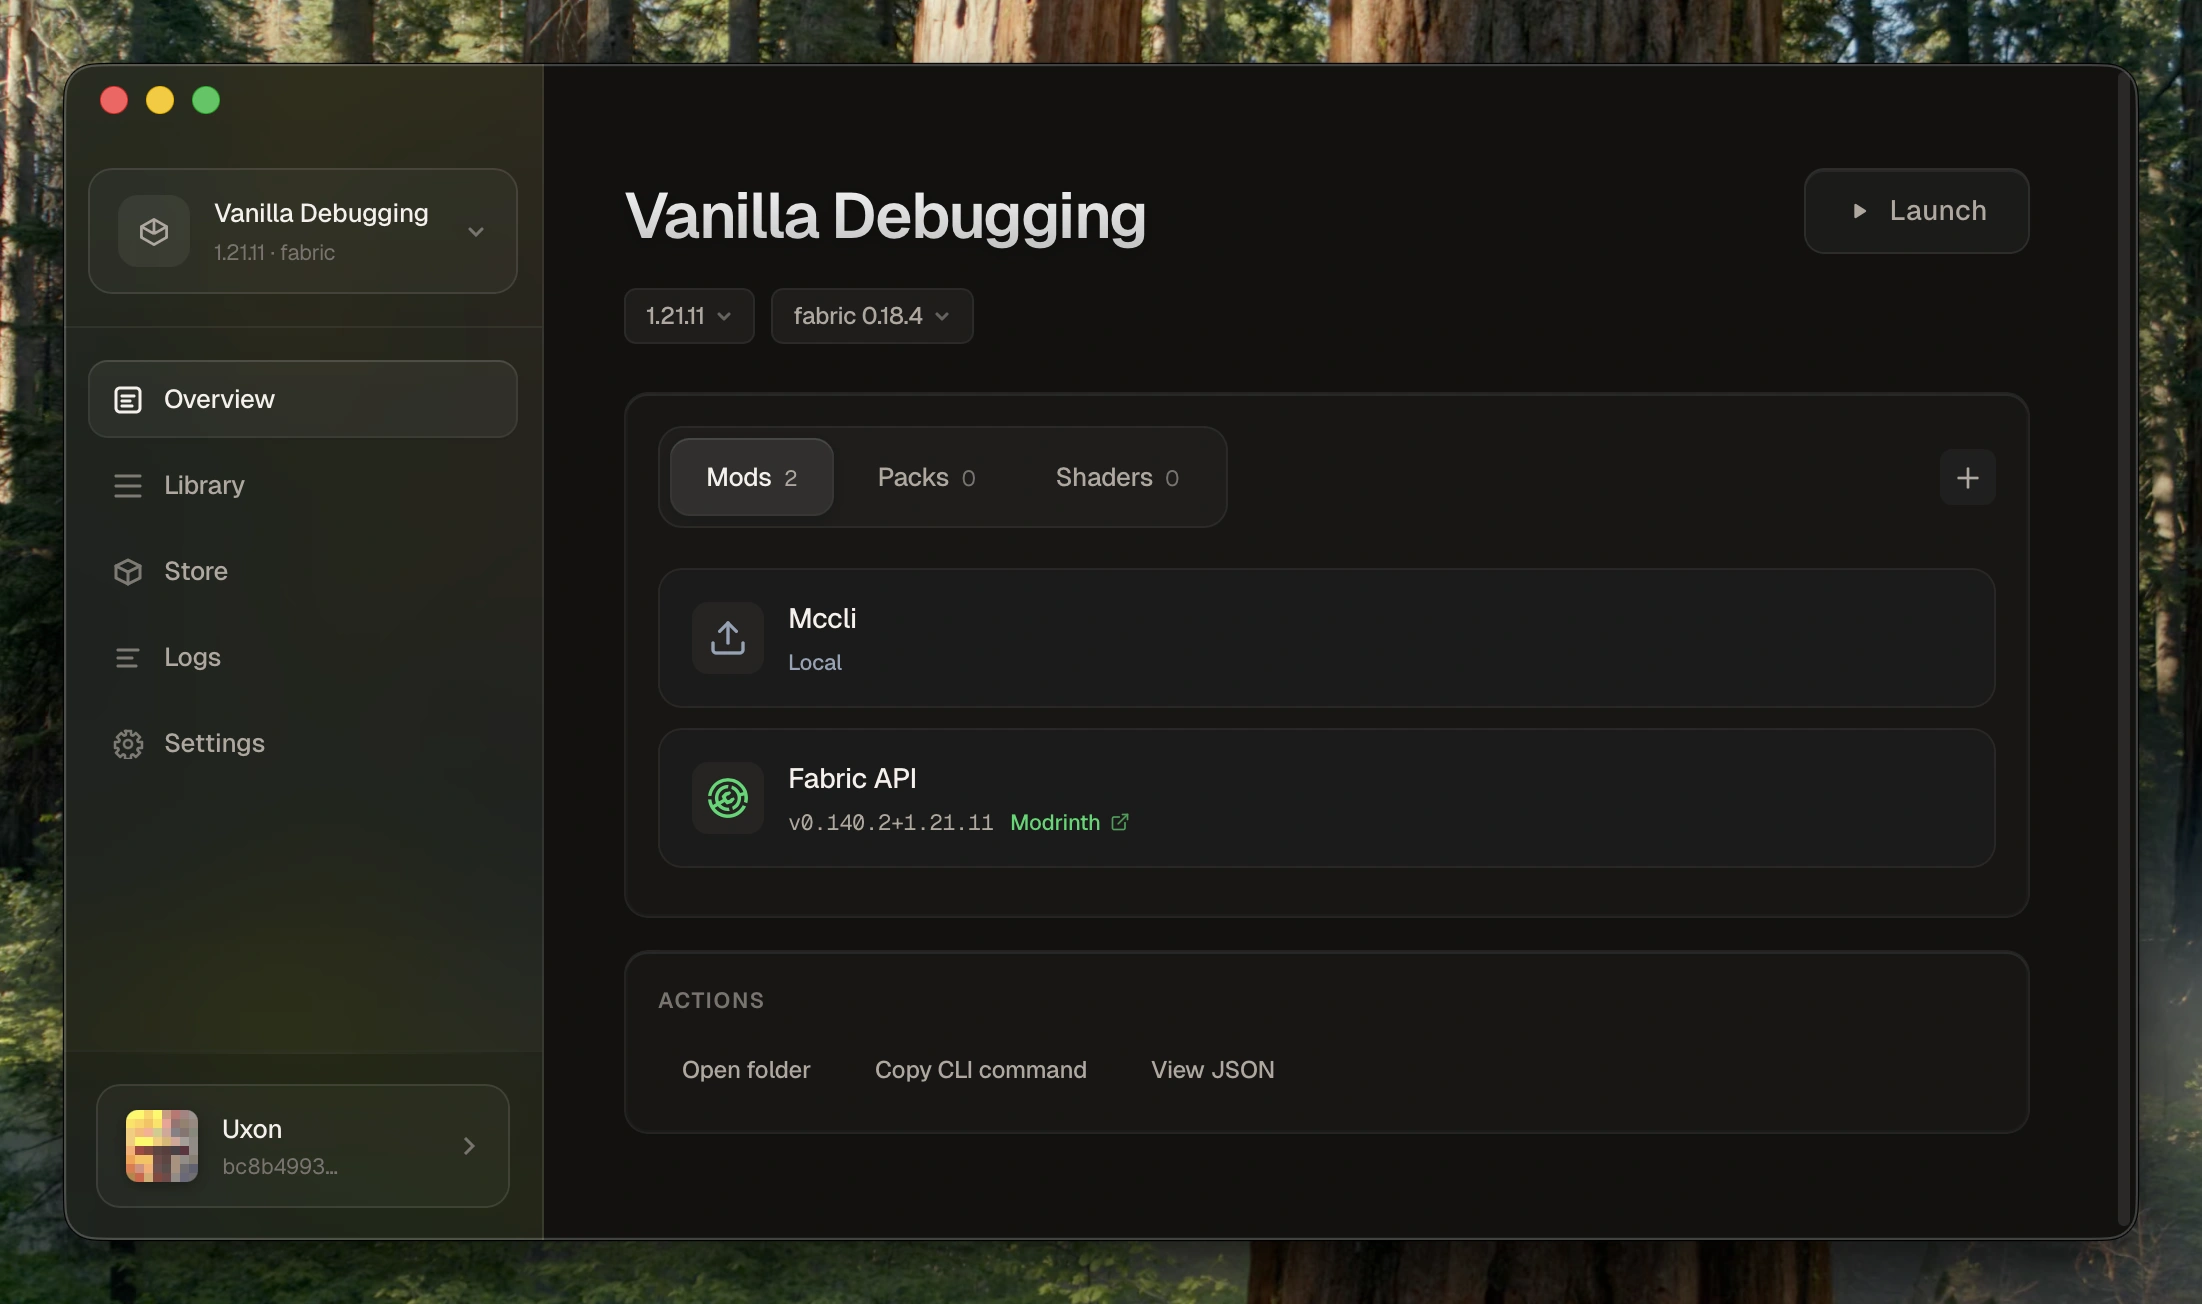
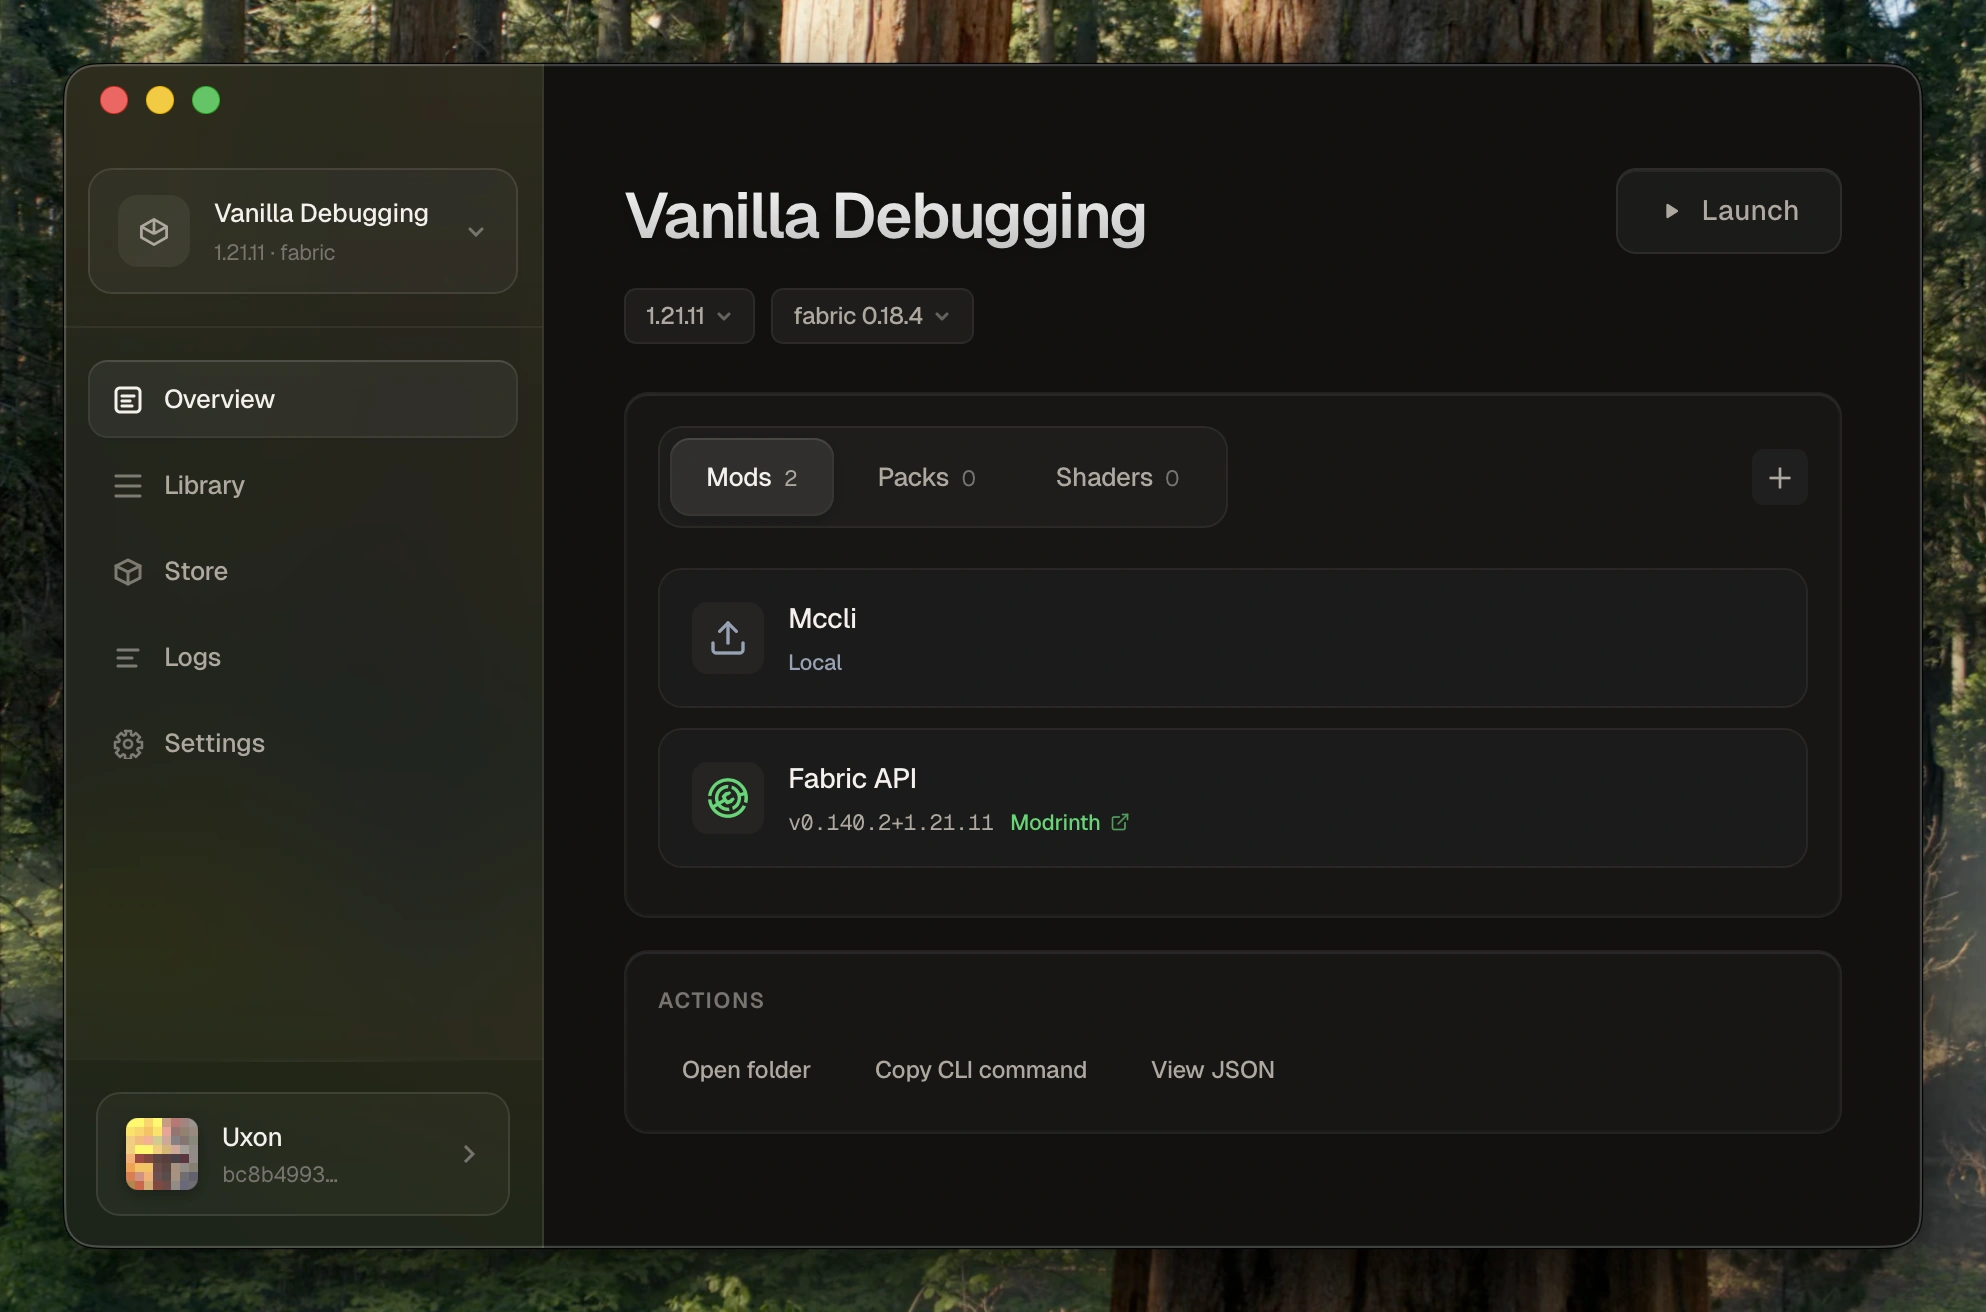
Update all launcher screenshots and fix aspect ratio
- Capture fresh screenshots for all 4 pages: overview, library, store, settings
- Update aspect ratio to 993/656 to match actual captured dimensions

diff --git a/web/components/launcher-hero/LauncherPreview.tsx b/web/components/launcher-hero/LauncherPreview.tsx
@@ -215,8 +215,8 @@ const styles = `
 
   .launcher-body {
     position: relative;
-    /* Screenshot dimensions: actual captured size at 1x = 1101x652 (2202x1304 at 2x retina) */
-    aspect-ratio: 1101 / 652;
+    /* Screenshot dimensions: actual captured size at 1x = 993x656 (1986x1312 at 2x retina) */
+    aspect-ratio: 993 / 656;
     background: rgb(18 17 16);
   }
 
@@ -320,7 +320,7 @@ const styles = `
 
   @media (max-width: 640px) {
     .launcher-body {
-      aspect-ratio: 1101 / 652;
+      aspect-ratio: 993 / 656;
     }
 
     .nav-button {
